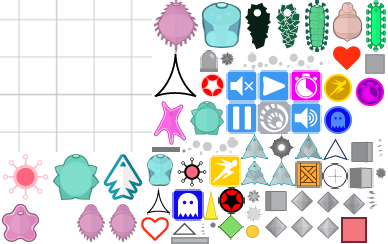
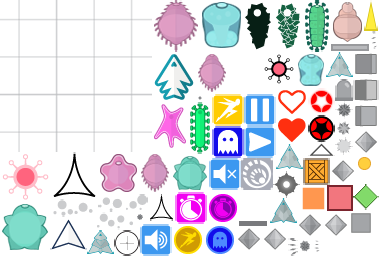
Temporary trail effect

diff --git a/src/js/game-objects/player/player.js b/src/js/game-objects/player/player.js
@@ -19,8 +19,7 @@ const ANIM_NAMES = {
 
 export default class Player extends Phaser.Sprite {
   constructor(game, x, y, parentGroup) {
-    // super(game, x, y, "assets", "player/player");
-    super(game, x, y, "assets", "enemies/player_v2_25");
+    super(game, x, y, "assets", "player/player");
     this.anchor.set(0.5);
     parentGroup.add(this);
 
@@ -62,7 +61,7 @@ export default class Player extends Phaser.Sprite {
     });
 
     // Controls
-    this._movementController = new MovementController(this.body, 50, 5000, 100);
+    this._movementController = new MovementController(this.body, 50, 5000, 300);
     this._attackControls = new Controller(this.game.input);
     this._attackControls.addMouseDownControl("attack", Phaser.Pointer.LEFT_BUTTON);
 
@@ -74,6 +73,18 @@ export default class Player extends Phaser.Sprite {
     this.pickupSound = this.game.globals.soundManager.add("whoosh");
 
     this._velocity = new Phaser.Point(0, 0);
+
+    this._emitter = this.game.add.emitter(0, 0, 100);
+    this._emitter.makeParticles("assets", "player/player-trail");
+    this._emitter.lifespan = 1000;
+    this._emitter.minRotation = 180;
+    this._emitter.maxRotation = 180;
+    this._emitter.gravity = 0;
+    this._emitter.setScale(0.5, 1.2, 0.5, 1.2, 500, Phaser.Easing.Quadratic.In);
+    this._emitter.setAlpha(1, 0.5, 1000, Phaser.Easing.Linear.None);
+    this._emitter.setXSpeed(-50, 50);
+    this._emitter.setYSpeed(-50, 50);
+    globals.groups.background.add(this._emitter);
   }
 
   update() {
@@ -87,6 +98,9 @@ export default class Player extends Phaser.Sprite {
     // Update velocity after collision
     Phaser.Point.subtract(this.body.position, this.body.prev, this._velocity);
     this._velocity.divide(this.game.time.physicsElapsed, this.game.time.physicsElapsed);
+
+    if (this._velocity.getMagnitude() > 50)
+      this._emitter.emitParticle(this.x, this.y, "assets", "player/player-trail");
 
     // Update the rotation of the player based on the mouse
     let mousePos = Phaser.Point.add(this.game.camera.position, this.game.input.activePointer);
